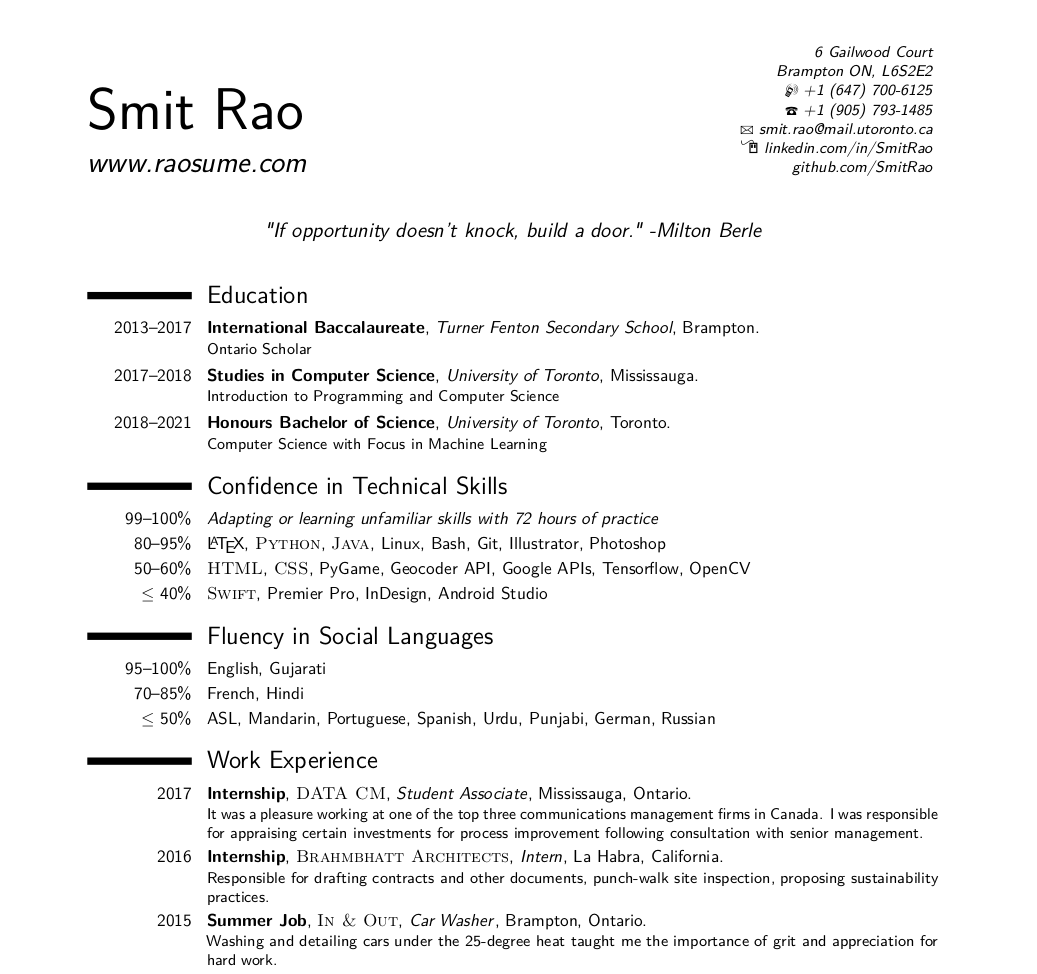
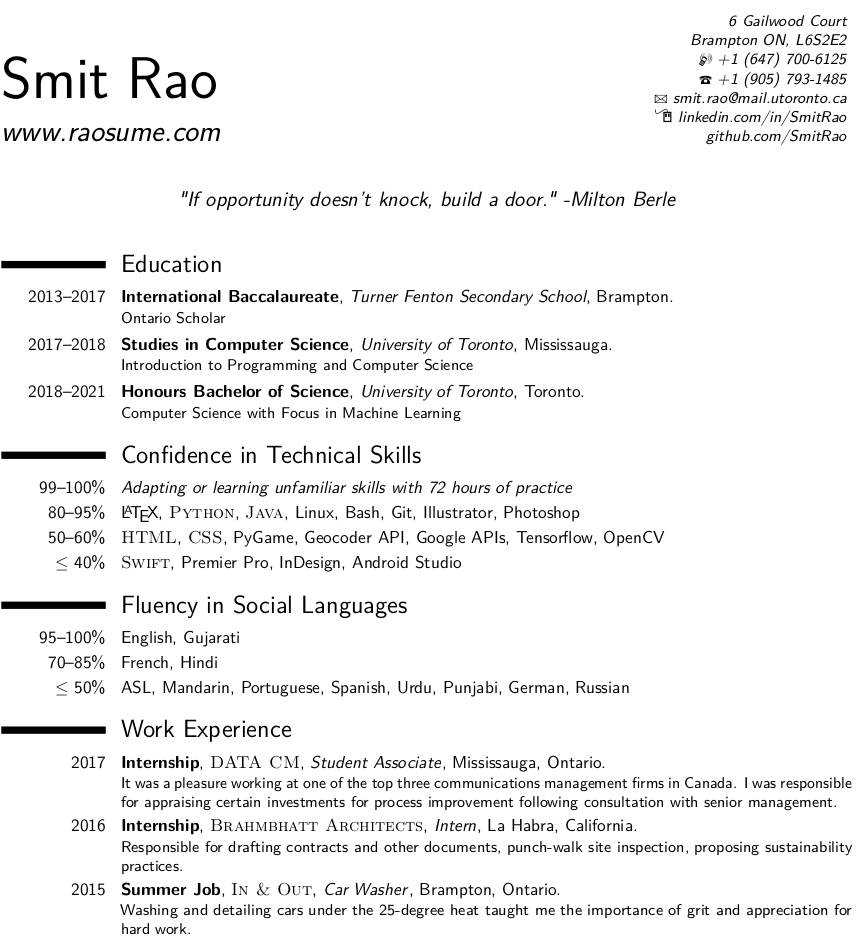
Adjusted dimensions

Changed region(s): [[0.0, 0.2768, 1.0, 1.0], [0.0, 0.0, 1.0, 0.246]]

diff --git a/index.html b/index.html
@@ -13,10 +13,10 @@
     </head>
     <body style="background-color:White;">
         <a href="https://linkedin.com/in/SmitRao">
-            <img src="http://raosume.com/first.png" alt="First Page of Resume" title="Smit's Resume: Page 1" width=1037 height=974 class="center">
+            <img src="http://raosume.com/first.png" alt="First Page of Resume" title="Smit's Resume: Page 1" width=858 height=943 class="center">
         </a>
         <a href="https://github.com/SmitRao">
-            <img src="http://raosume.com/second.png" alt="Second Page of Resume" title="Smit's Resume: Page 2" width=1037 height=1213 class="center">
+            <img src="http://raosume.com/second.png" alt="Second Page of Resume" title="Smit's Resume: Page 2" width=859 height=1213 class="center">
         </a>
     </body>
 </html>
